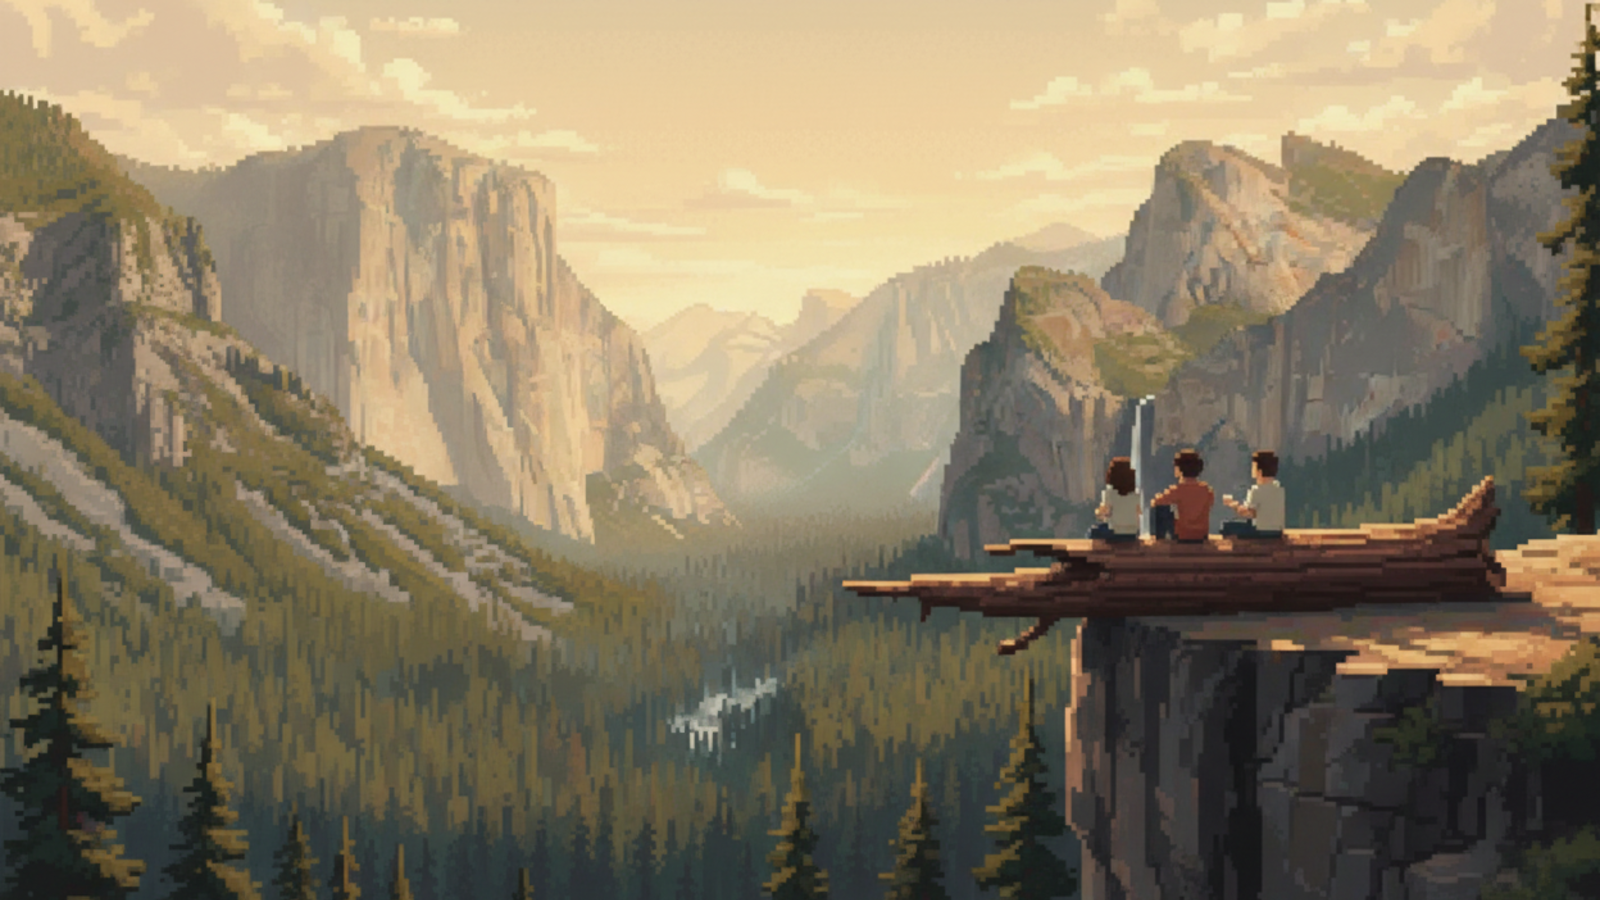
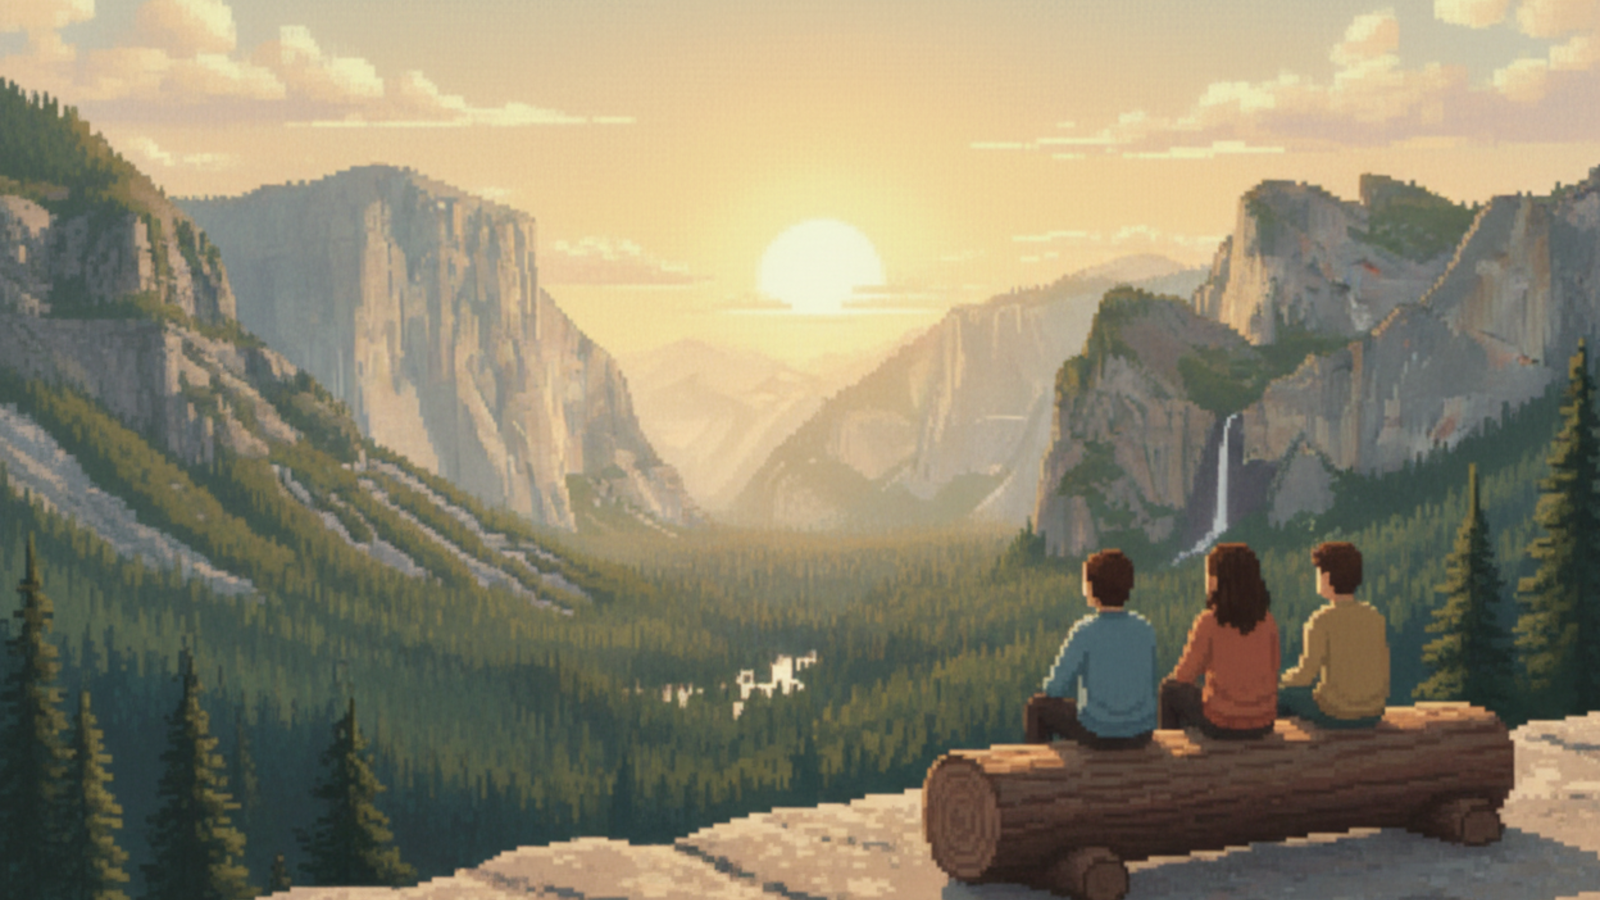
Landing hero: left retro-screen panel over full-colour cliff image
Recompose hero image (friends grounded on a solid log, valley open left). Drop
the dark scrim; put the copy in a left-weighted retro device screen (LED bar,
scanline) so the image stays full-colour. Bump SW v3->v4 to refresh the image.

diff --git a/app/page.tsx b/app/page.tsx
@@ -49,24 +49,25 @@ const CSS = `
 .lp .btn-gold{background:var(--gold); color:var(--ink);
   box-shadow:var(--shadow), inset 0 3px 0 rgba(255,255,255,.45), inset 0 -3px 0 rgba(0,0,0,.16)}
 
-.lp .hero{position:relative; min-height:92vh; display:flex; align-items:center; justify-content:center;
+.lp .hero{position:relative; min-height:92vh; display:flex; align-items:center; justify-content:flex-start;
   border-bottom-left-radius:26px; border-bottom-right-radius:26px; overflow:hidden; background:#241F33}
 .lp .hero-img{position:absolute; inset:-8% 0 0 0; width:100%; height:116%; object-fit:cover;
-  object-position:center 42%; z-index:0}
-.lp .hero-scrim{position:absolute; inset:0; z-index:1;
-  background:
-    radial-gradient(120% 80% at 50% 8%, rgba(36,31,51,.55), transparent 55%),
-    linear-gradient(rgba(36,31,51,.28) 0%, rgba(36,31,51,.12) 32%, rgba(36,31,51,.45) 72%, rgba(36,31,51,.82) 100%)}
-.lp .hero-inner{position:relative; z-index:3; text-align:center; color:#fff; padding:40px 22px 96px}
-.lp .hero .eyebrow{color:#fff; border:2px solid rgba(255,255,255,.32); background:rgba(0,0,0,.28);
-  padding:7px 14px; border-radius:7px; backdrop-filter:blur(3px)}
-.lp .hero h1{font-size:clamp(54px,11vw,104px); margin-top:26px; color:#fff; text-shadow:4px 4px 0 rgba(0,0,0,.5)}
+  object-position:center 46%; z-index:0}
+/* hero copy lives in a left-weighted retro screen over the full-colour image */
+.lp .hero-screen{position:relative; z-index:4; margin:0 0 0 clamp(16px,6vw,96px); width:min(90vw,520px)}
+.lp .hero-screen-body{position:relative; z-index:2; padding:24px 28px 30px; text-align:left; color:#fff}
+.lp .hero .eyebrow{color:#fff; border:2px solid rgba(255,255,255,.28); background:rgba(255,255,255,.07);
+  padding:6px 12px; border-radius:7px}
+.lp .hero h1{font-size:clamp(38px,6vw,56px); margin-top:18px; color:#fff; text-shadow:3px 3px 0 rgba(0,0,0,.55)}
 .lp .hero h1 b{color:var(--gold); font-weight:700}
-.lp .hero p.sub{max-width:540px; margin:22px auto 0; font-size:clamp(17px,2.3vw,21px); font-weight:600;
-  color:#fff; line-height:1.5; text-shadow:1px 2px 8px rgba(0,0,0,.5)}
-.lp .hero .cta{display:flex; gap:14px; justify-content:center; flex-wrap:wrap; margin-top:34px}
-.lp .trust{margin-top:16px; font-size:13px; color:rgba(255,255,255,.86); font-weight:600; letter-spacing:.3px;
-  text-shadow:0 1px 6px rgba(0,0,0,.6)}
+.lp .hero p.sub{max-width:none; margin:16px 0 0; font-size:16px; font-weight:600;
+  color:rgba(255,255,255,.92); line-height:1.55}
+.lp .hero .cta{display:flex; gap:14px; justify-content:flex-start; flex-wrap:wrap; margin-top:26px}
+.lp .trust{margin-top:14px; font-size:12.5px; color:rgba(255,255,255,.72); font-weight:600; letter-spacing:.3px}
+@media(max-width:680px){
+  .lp .hero{justify-content:center}
+  .lp .hero-screen{margin:0 14px; width:auto; max-width:100%}
+}
 
 .lp section.band{padding:96px 0; position:relative; z-index:2}
 .lp .kicker{display:inline-flex; align-items:center; gap:7px; font-family:var(--font-display); font-weight:600;
@@ -274,21 +275,23 @@ export default function Home() {
       {/* HERO */}
       <header className="hero">
         <img className="hero-img" ref={heroRef} src="/img/hero-cliff.png" alt="" />
-        <div className="hero-scrim" />
         <div className="stars" aria-hidden="true">
-          {Array.from({ length: 26 }).map((_, i) => (
-            <i key={i} className="star" style={{ left: `${(i * 41 + 7) % 100}%`, top: `${(i * 23 + 5) % 62}%`, animationDelay: `${(i % 7) * 0.42}s` }} />
+          {Array.from({ length: 16 }).map((_, i) => (
+            <i key={i} className="star" style={{ left: `${(i * 53 + 9) % 100}%`, top: `${(i * 29 + 4) % 36}%`, animationDelay: `${(i % 7) * 0.42}s` }} />
           ))}
         </div>
-        <div className="hero-inner">
-          <span className="eyebrow">◇ The anti-social-media app</span>
-          <h1>Less scrolling.<br />More <b>living</b>.</h1>
-          <p className="sub">AIventure turns “we should hang out” into a real plan — and your crew out the door. Then it remembers it for you.</p>
-          <div className="cta">
-            <Link className="btn btn-gold" href="/signin" onPointerDown={blip}>Start an adventure</Link>
+        <div className="screen hero-screen">
+          <div className="screen-bar"><i className="led" /><i className="led" /><i className="led" /><em>Title screen</em></div>
+          <div className="hero-screen-body">
+            <span className="eyebrow">◇ The anti-social-media app</span>
+            <h1>Less scrolling.<br />More <b>living</b>.</h1>
+            <p className="sub">AIventure turns “we should hang out” into a real plan — and your crew out the door. Then it remembers it for you.</p>
+            <div className="cta">
+              <Link className="btn btn-gold" href="/signin" onPointerDown={blip}>Start an adventure</Link>
+            </div>
+            <div className="pressstart">▶ Press start</div>
+            <p className="trust">Free to join any plan · No download · No feed</p>
           </div>
-          <div className="pressstart">▶ Press start</div>
-          <p className="trust">Free to join any plan · No download · No feed</p>
         </div>
       </header>
 

diff --git a/public/sw.js b/public/sw.js
@@ -1,7 +1,7 @@
 // AIventure service worker — app-shell offline caching. Bundler-independent
 // (plain SW; Next 16 builds with Turbopack, which @serwist/next's webpack
 // injection doesn't run under). Bump VERSION to invalidate caches on deploy.
-const VERSION = "v3";
+const VERSION = "v4";
 const SHELL_CACHE = `aiventure-shell-${VERSION}`;
 const RUNTIME_CACHE = `aiventure-runtime-${VERSION}`;
 